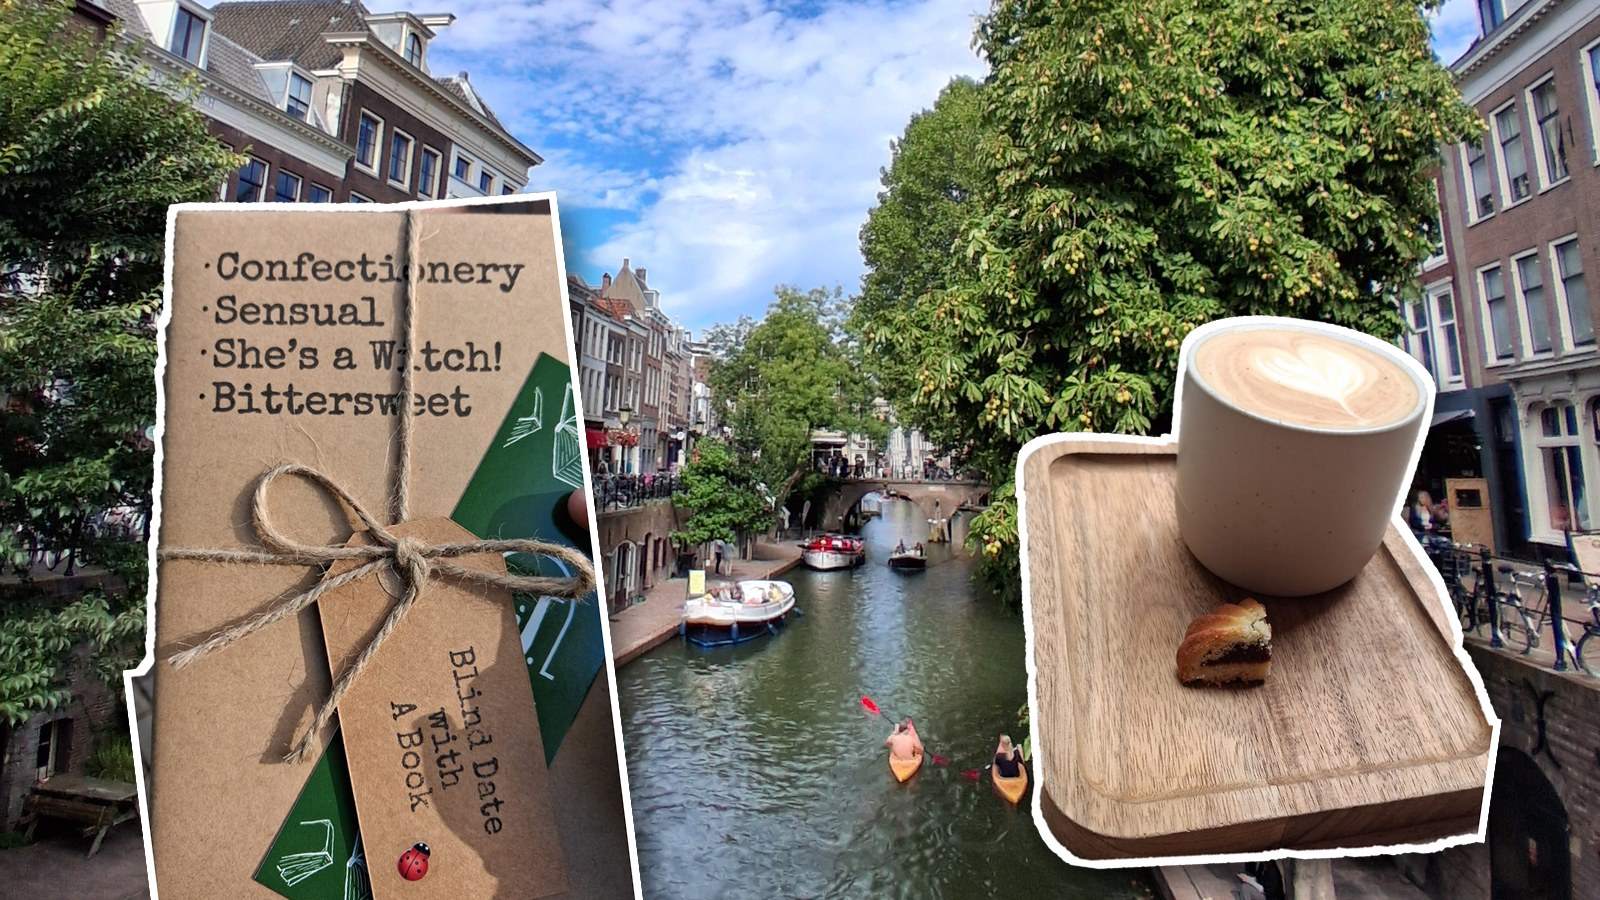
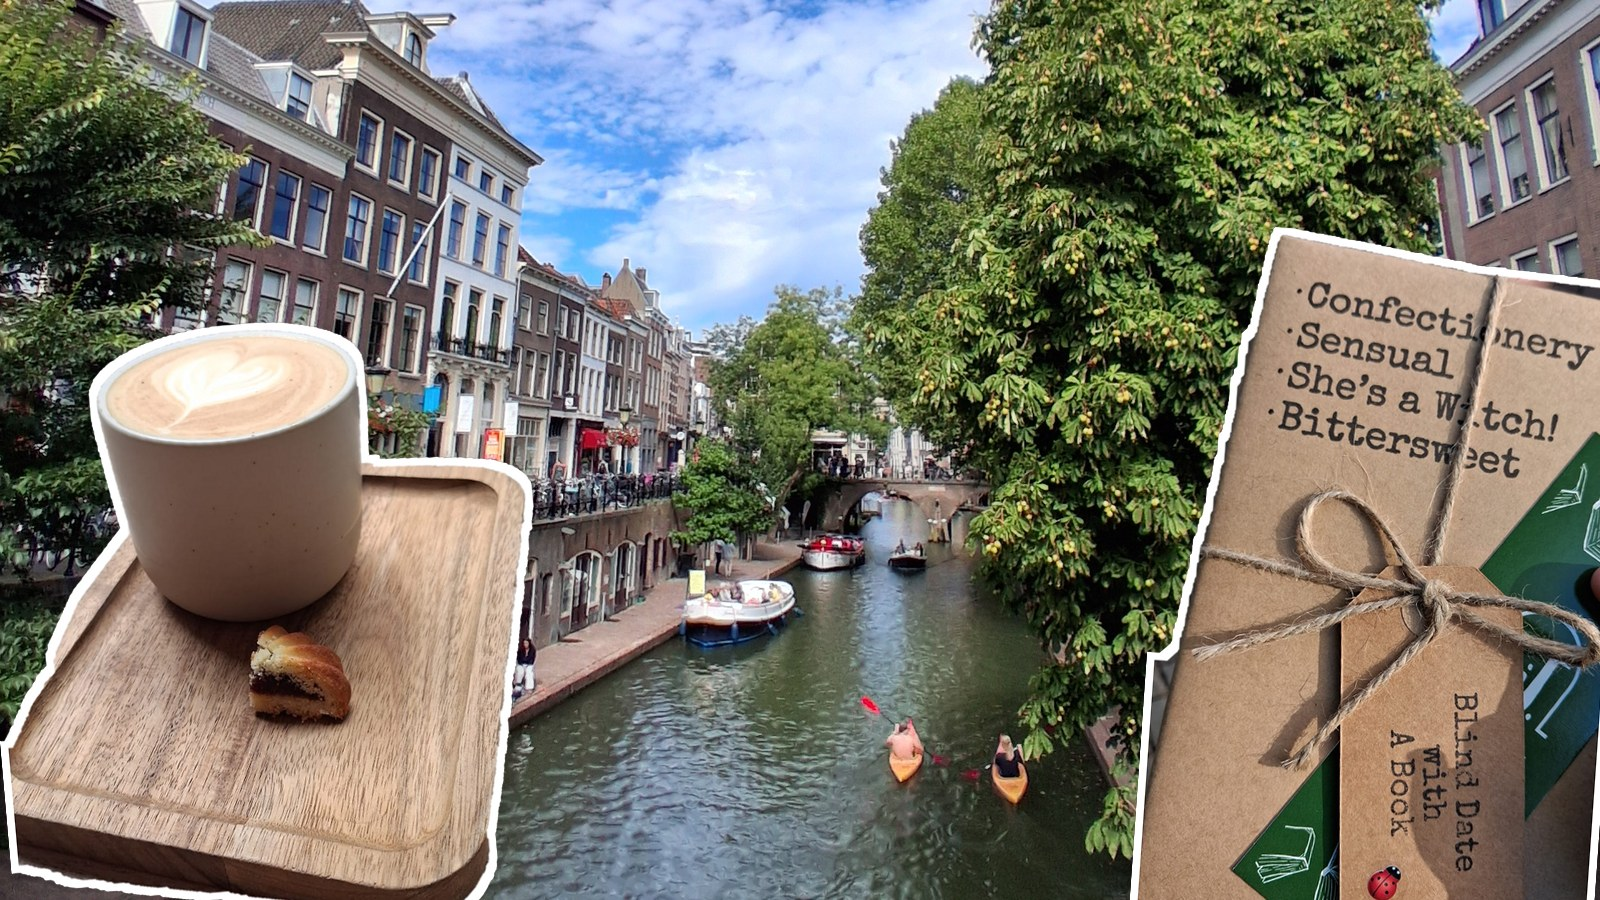
Rearrange the collage header and update the intro and captions

diff --git a/src/content/blog/babys-first-conference.md b/src/content/blog/babys-first-conference.md
@@ -10,7 +10,7 @@ tags: ['EMS', 'conferences', 'posters', 'presentations']
 
 I was fortunate enough to attend the European Meteorological Society's Annual Meeting in Utrecht, the Netherlands, alongside around 800 others (+ Boris and Haneen from Maths & Stats!).
 
-Aside from the research itself, the week involved many coffees and a lot of calendar Tetris trying to decide which talks to attend. I also walked away with a better engagement with my own work and a long list of presentation tips to use.
+Aside from the research itself, the week involved many coffees and a lot of calendar Tetris trying to optimise my attendance. I came home with a better feel for my own work and a long list of conference tips, especially for presenting.
 
 ## Networking
 
@@ -50,7 +50,7 @@ The posters I liked most either let the figures do most of the talking, or liter
 
 <figure>
   <img src="/images/blog/babys-first-conference/not-reading-all-that.jpg" alt="Meme text messages: i ain't reading all that, i'm happy for u tho, or sorry that happened" />
-  <figcaption>Posters with the full abstract on them</figcaption>
+  <figcaption>Me @ posters which are half-abstract</figcaption>
 </figure>
 
 I've left mine below, so you can be the judge of it! I vibe-coded it in HTML after getting fed up with the rigid column sizing of every LaTeX template I had the displeasure of trying. It was handy because I could resize plots without having to manually rescale all the labels and text in Python.
@@ -68,7 +68,7 @@ I would say roughly a third of the talks I attended mentioned AI or ML in some f
 
 <figure>
   <img src="/images/blog/babys-first-conference/weathergenerator.jpg" alt="A conference slide titled WeatherGenerator showing a model diagram" />
-  <figcaption>WeatherGenerator, one of many ML forecasting systems on show. Slide credit: C. Lessig</figcaption>
+  <figcaption>WeatherGenerator, one of many ML forecasting systems on show</figcaption>
 </figure>
 
 Quantile Regression Forests and XGBoost came up several times, including in UK Met Office talks, which caught my attention because they have also appeared in my own research.
